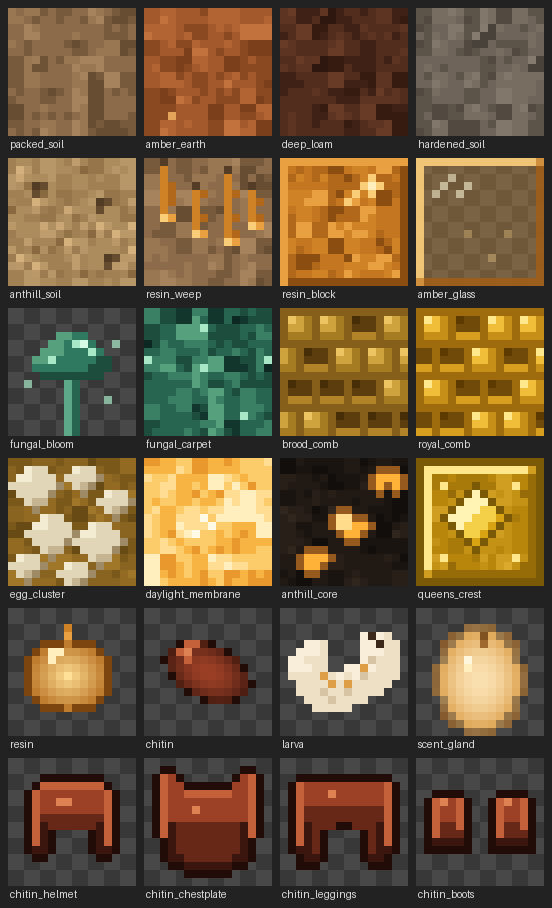
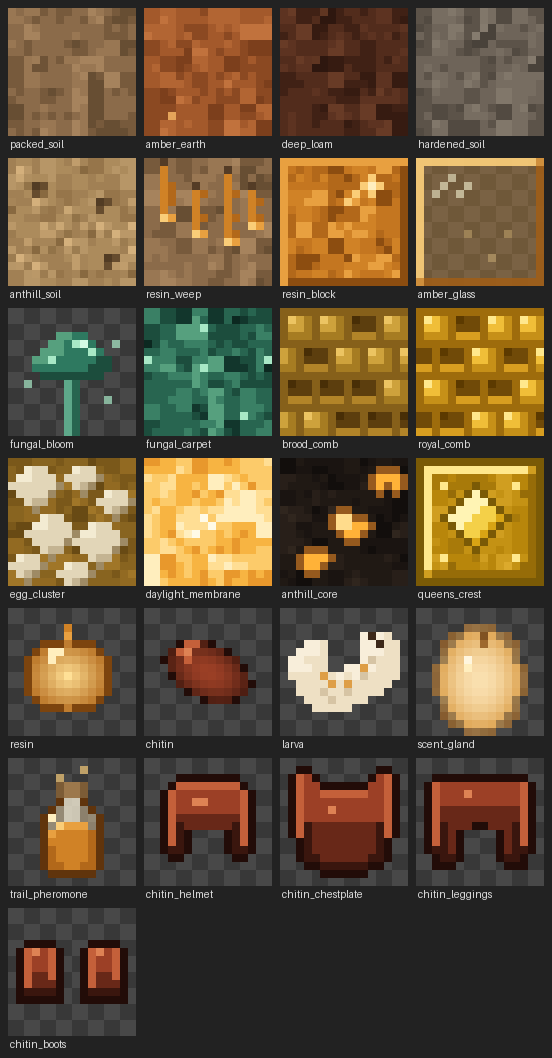
feat(item): Trail Pheromone, the breadcrumb consumable, and the mod's first recipe
Using one freezes the last 30 recorded positions and retraces them in particles
for two minutes, sent to that player alone. Frozen rather than read live because
the player's next move after using one is to walk back along the trail, which
would otherwise record new samples straight over the history they are following.
It refuses without being consumed when there is nothing recorded, which is what
happens outside the colony.

Recipe is shapeless Scent Gland + Fungal Bloom -> 2, via the repo's first
RecipeProvider (wired into DataGenerators). Datagen writes it to
data/formicary/recipe/ -- singular, like loot_table.

diff --git a/assets-src/blocks.py b/assets-src/blocks.py
@@ -642,6 +642,55 @@ def larva_item():
     return img
 
 
+TRAIL_PHEROMONE_LEGEND = {
+    ".": None,
+    "o": (96, 52, 12, 255),          # dark glass rim
+    "g": (250, 224, 176, 110),       # empty glass, mostly see-through
+    "G": (255, 246, 222, 190),       # lit glass edge
+    "s": AMBER_SPARK,                # specular on the shoulder
+    "F": AMBER_LIGHT,                # fluid surface
+    "f": AMBER_MID,                  # fluid body
+    "d": AMBER_BASE,                 # fluid shaded edge
+    "c": (124, 92, 54, 255),         # cork
+    "C": (156, 120, 76, 255),        # cork, lit
+    "m": (250, 205, 120, 170),       # escaping scent mote
+}
+
+# A stoppered vial, three quarters full. Shares the resin/scent-gland amber ramp so it
+# reads as the same family of colony-made goo, and keeps the silhouette narrow and
+# vertical so it is not mistaken for the Scent Gland's round sac at inventory scale.
+TRAIL_PHEROMONE_MASK = [
+    "................",
+    ".........m......",
+    "......m.........",
+    "......cCCc......",
+    "......cCCc......",
+    "......oGGo......",
+    ".....ogGGgo.....",
+    "....osgGGggo....",
+    "....ogFFFFgo....",
+    "....odffffdo....",
+    "....odffffdo....",
+    "....odffffdo....",
+    "....odffffdo....",
+    "....oddffddo....",
+    ".....oooooo.....",
+    "................",
+]
+
+
+def trail_pheromone_item():
+    """Trail Pheromone (M5): a corked vial of amber pheromone with a mote or two
+    escaping the stopper."""
+    img = paint_mask(TRAIL_PHEROMONE_MASK, TRAIL_PHEROMONE_LEGEND)
+    px = img.load()
+    # specular running down the left of the fluid, and one bright mote on the surface
+    px[5, 9] = AMBER_LIGHT
+    px[5, 10] = AMBER_MID
+    px[6, 8] = AMBER_PALE
+    return img
+
+
 # ---------------------------------------------------------------------------
 # Mob effect icons (M4b) -- 18x18, vanilla's status-icon size (not SIZE=16)
 # ---------------------------------------------------------------------------
@@ -789,18 +838,23 @@ CHITIN_BOOTS_MASK = [
 ]
 
 
-def from_mask(mask):
-    """Paints a 16x16 sprite from a character mask via ARMOR_LEGEND."""
+def paint_mask(mask, legend):
+    """Paints a 16x16 sprite from a character mask and a legend of colours."""
     if len(mask) != SIZE or any(len(row) != SIZE for row in mask):
-        raise ValueError("armor mask must be 16 rows of 16 chars")
+        raise ValueError("mask must be 16 rows of 16 chars")
     img = blank()
     px = img.load()
     for y, row in enumerate(mask):
         for x, ch in enumerate(row):
-            colour = ARMOR_LEGEND[ch]
+            colour = legend[ch]
             if colour is not None:
                 px[x, y] = colour
     return img
+
+
+def from_mask(mask):
+    """Paints a 16x16 sprite from a character mask via ARMOR_LEGEND."""
+    return paint_mask(mask, ARMOR_LEGEND)
 
 
 def chitin_helmet_item():
@@ -1007,6 +1061,7 @@ ITEM_TEXTURES = {
     "chitin": chitin_item,
     "larva": larva_item,
     "scent_gland": scent_gland_item,
+    "trail_pheromone": trail_pheromone_item,
     "chitin_helmet": chitin_helmet_item,
     "chitin_chestplate": chitin_chestplate_item,
     "chitin_leggings": chitin_leggings_item,

diff --git a/src/main/java/com/nogal/formicary/item/TrailPheromoneItem.java b/src/main/java/com/nogal/formicary/item/TrailPheromoneItem.java
@@ -1,0 +1,52 @@
+package com.nogal.formicary.item;
+
+import com.nogal.formicary.portal.ModAttachments;
+import com.nogal.formicary.portal.TrailPath;
+
+import net.minecraft.network.chat.Component;
+import net.minecraft.server.level.ServerPlayer;
+import net.minecraft.sounds.SoundEvents;
+import net.minecraft.sounds.SoundSource;
+import net.minecraft.world.InteractionHand;
+import net.minecraft.world.InteractionResultHolder;
+import net.minecraft.world.entity.player.Player;
+import net.minecraft.world.item.Item;
+import net.minecraft.world.item.ItemStack;
+import net.minecraft.world.level.Level;
+
+/**
+ * The Trail Pheromone (spec section 2): lights up the route the player themselves walked.
+ *
+ * <p>All the state lives on the player's {@link TrailPath} attachment; this item is just
+ * the trigger. It refuses -- without being consumed -- when there is nothing recorded to
+ * retrace, which is what happens if it is used outside the colony, since path recording is
+ * gated on the dimension.
+ */
+public class TrailPheromoneItem extends Item {
+
+    public TrailPheromoneItem(Properties properties) {
+        super(properties);
+    }
+
+    @Override
+    public InteractionResultHolder<ItemStack> use(Level level, Player player, InteractionHand hand) {
+        ItemStack stack = player.getItemInHand(hand);
+        if (!(player instanceof ServerPlayer serverPlayer)) {
+            // Client copy: swing the arm and let the server decide. Doing anything else here
+            // would be guessing at server-only state (the path attachment is never synced).
+            return InteractionResultHolder.sidedSuccess(stack, level.isClientSide);
+        }
+
+        TrailPath path = serverPlayer.getData(ModAttachments.TRAIL_PATH);
+        if (!path.light()) {
+            serverPlayer.displayClientMessage(
+                    Component.translatable("item.formicary.trail_pheromone.no_trail"), true);
+            return InteractionResultHolder.fail(stack);
+        }
+
+        level.playSound(null, serverPlayer.blockPosition(), SoundEvents.BEEHIVE_ENTER, SoundSource.PLAYERS,
+                0.8F, 1.4F);
+        stack.consume(1, player);
+        return InteractionResultHolder.consume(stack);
+    }
+}

diff --git a/src/main/java/com/nogal/formicary/datagen/ModRecipeProvider.java b/src/main/java/com/nogal/formicary/datagen/ModRecipeProvider.java
@@ -1,0 +1,45 @@
+package com.nogal.formicary.datagen;
+
+import java.util.concurrent.CompletableFuture;
+
+import com.nogal.formicary.item.ModItems;
+
+import net.minecraft.core.HolderLookup;
+import net.minecraft.data.PackOutput;
+import net.minecraft.data.recipes.RecipeCategory;
+import net.minecraft.data.recipes.RecipeOutput;
+import net.minecraft.data.recipes.RecipeProvider;
+import net.minecraft.data.recipes.ShapelessRecipeBuilder;
+
+/**
+ * The mod's crafting recipes. M5 adds the first one; the rest of the recipe book is M8.
+ *
+ * <p>Verified in the decompiled 21.0.167 sources: the hook is
+ * {@code protected void buildRecipes(RecipeOutput)} (the {@code (RecipeOutput,
+ * HolderLookup.Provider)} overload just delegates to it), and
+ * {@code RecipeProvider}'s constructor takes the {@code CompletableFuture} of registries
+ * rather than a resolved provider. Output lands in {@code data/formicary/recipe/} --
+ * singular, like {@code loot_table} -- because {@code PackOutput
+ * .createRegistryElementsPathProvider} derives the folder from the registry key.
+ */
+public class ModRecipeProvider extends RecipeProvider {
+
+    /** How many Trail Pheromones one Scent Gland + Fungal Bloom makes. Tunable per spec. */
+    public static final int TRAIL_PHEROMONE_PER_CRAFT = 2;
+
+    public ModRecipeProvider(PackOutput output, CompletableFuture<HolderLookup.Provider> registries) {
+        super(output, registries);
+    }
+
+    @Override
+    protected void buildRecipes(RecipeOutput recipeOutput) {
+        // Spec section 2: "Scent Gland + Fungal Bloom -> 2, tunable". Shapeless, because
+        // there is nothing about the arrangement that should matter.
+        ShapelessRecipeBuilder
+                .shapeless(RecipeCategory.MISC, ModItems.TRAIL_PHEROMONE.get(), TRAIL_PHEROMONE_PER_CRAFT)
+                .requires(ModItems.SCENT_GLAND.get())
+                .requires(ModItems.FUNGAL_BLOOM.get())
+                .unlockedBy(getHasName(ModItems.SCENT_GLAND.get()), has(ModItems.SCENT_GLAND.get()))
+                .save(recipeOutput);
+    }
+}

diff --git a/src/main/java/com/nogal/formicary/item/ModItems.java b/src/main/java/com/nogal/formicary/item/ModItems.java
@@ -15,7 +15,8 @@ import net.neoforged.neoforge.registries.DeferredRegister;
  * M3a adds chitin (worker/soldier loot) and the larva item (the capture interaction's
  * export good -- placement lands in M6, so it's a plain item for now). M3b adds the
  * four-piece Chitin Armor set, which is what gates mining the dimension's fabric. M4b
- * adds the Scent Gland (worker/soldier loot, brewed into Pheromonal Disguise).
+ * adds the Scent Gland (worker/soldier loot, brewed into Pheromonal Disguise). M5 adds the
+ * Trail Pheromone, the breadcrumb consumable, which is the mod's first crafted item.
  */
 public class ModItems {
     public static final DeferredRegister.Items ITEMS = DeferredRegister.createItems(Formicary.MODID);
@@ -24,6 +25,10 @@ public class ModItems {
     public static final DeferredItem<Item> CHITIN = ITEMS.registerSimpleItem("chitin");
     public static final DeferredItem<Item> LARVA = ITEMS.registerSimpleItem("larva");
     public static final DeferredItem<Item> SCENT_GLAND = ITEMS.registerSimpleItem("scent_gland");
+
+    /** M5: lights up the player's own recorded route back out of the colony. */
+    public static final DeferredItem<TrailPheromoneItem> TRAIL_PHEROMONE =
+            ITEMS.registerItem("trail_pheromone", TrailPheromoneItem::new);
 
     // --- Chitin Armor (spec section 5). No recipes until M8: creative-only for now. ---
 

diff --git a/src/main/java/com/nogal/formicary/datagen/ModLanguageProvider.java b/src/main/java/com/nogal/formicary/datagen/ModLanguageProvider.java
@@ -42,6 +42,9 @@ public class ModLanguageProvider extends LanguageProvider {
         addItem(ModItems.CHITIN, "Chitin");
         addItem(ModItems.LARVA, "Larva");
         addItem(ModItems.SCENT_GLAND, "Scent Gland");
+        addItem(ModItems.TRAIL_PHEROMONE, "Trail Pheromone");
+        // Shown above the hotbar when a pheromone is used with nothing recorded to retrace.
+        add("item.formicary.trail_pheromone.no_trail", "No trail to follow yet.");
 
         addItem(ModItems.CHITIN_HELMET, "Chitin Helmet");
         addItem(ModItems.CHITIN_CHESTPLATE, "Chitin Chestplate");

diff --git a/src/main/java/com/nogal/formicary/datagen/DataGenerators.java b/src/main/java/com/nogal/formicary/datagen/DataGenerators.java
@@ -34,6 +34,7 @@ public class DataGenerators {
         generator.addProvider(event.includeClient(), new ModItemModelProvider(output, existingFileHelper));
         generator.addProvider(event.includeServer(), new ModBlockTagsProvider(output, lookupProvider, existingFileHelper));
         generator.addProvider(event.includeServer(), new ModLootTableProvider(output, lookupProvider));
+        generator.addProvider(event.includeServer(), new ModRecipeProvider(output, lookupProvider));
         generator.addProvider(event.includeClient(), new ModLanguageProvider(output));
     }
 

diff --git a/src/main/java/com/nogal/formicary/item/ModCreativeModeTabs.java b/src/main/java/com/nogal/formicary/item/ModCreativeModeTabs.java
@@ -29,6 +29,7 @@ public class ModCreativeModeTabs {
                         output.accept(ModItems.CHITIN.get());
                         output.accept(ModItems.LARVA.get());
                         output.accept(ModItems.SCENT_GLAND.get());
+                        output.accept(ModItems.TRAIL_PHEROMONE.get());
                         output.accept(ModItems.CHITIN_HELMET.get());
                         output.accept(ModItems.CHITIN_CHESTPLATE.get());
                         output.accept(ModItems.CHITIN_LEGGINGS.get());

diff --git a/src/main/java/com/nogal/formicary/datagen/ModItemModelProvider.java b/src/main/java/com/nogal/formicary/datagen/ModItemModelProvider.java
@@ -46,6 +46,7 @@ public class ModItemModelProvider extends ItemModelProvider {
         basicItem(ModItems.CHITIN.get());
         basicItem(ModItems.LARVA.get());
         basicItem(ModItems.SCENT_GLAND.get());
+        basicItem(ModItems.TRAIL_PHEROMONE.get());
 
         basicItem(ModItems.CHITIN_HELMET.get());
         basicItem(ModItems.CHITIN_CHESTPLATE.get());
